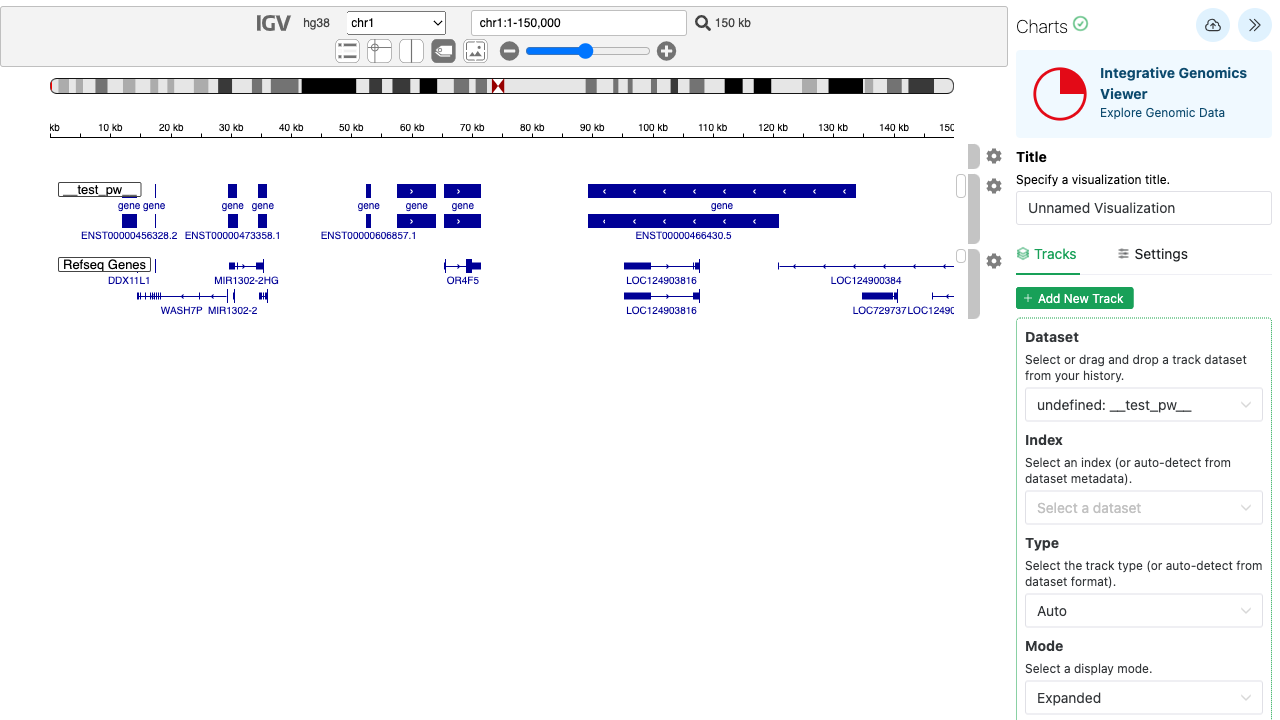
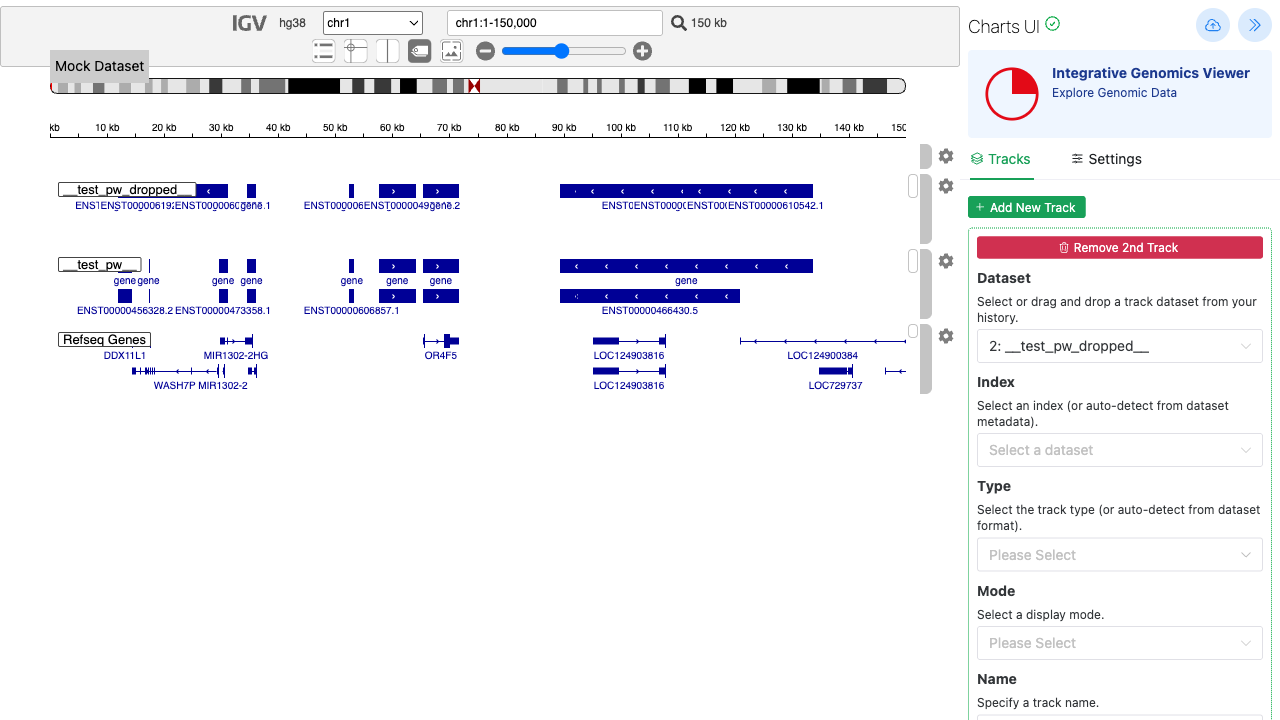
Fix tests

diff --git a/packages/igv/test.spec.js b/packages/igv/test.spec.js
@@ -54,7 +54,7 @@ async function dragAndDropDataset(page, datasetId, datasetName) {
     await page.evaluate(
         ([datasetId, datasetName]) => {
             const source = document.querySelector(".mock-dataset-item");
-            const target = document.querySelector(".h-screen.overflow-auto");
+            const target = document.querySelector("#viewport");
             const dataTransfer = new DataTransfer();
             const datasetPayload = [
                 [
@@ -110,16 +110,14 @@ test("basic load and drag-drop dataset", async ({ page }) => {
     await page.goto("http://localhost:5173?dataset_id=__test_pw__");
     await page.waitForSelector(".igv-track-label[title='__test_pw__']");
     await expect(page).toHaveScreenshot("0.png", { maxDiffPixelRatio: 0.03 });
-    await page.click(".n-button");
-    await expect(page).toHaveScreenshot("1.png", { maxDiffPixelRatio: 0.03 });
     await page.fill(".igv-search-input", "chr1:1-150,000");
     await page.keyboard.press("Enter");
     await page.waitForTimeout(1000);
-    await expect(page).toHaveScreenshot("2.png", { maxDiffPixelRatio: 0.03 });
+    await expect(page).toHaveScreenshot("1.png", { maxDiffPixelRatio: 0.03 });
     await createMockDatasetElement(page);
     await dragAndDropDataset(page, "__test_pw_dropped__", "__test_pw_dropped__");
     await page.waitForSelector(".igv-track-label[title='__test_pw_dropped__']");
     const accepted = messages.some((msg) => msg.includes("[igv] Dropped Tracks"));
     expect(accepted).toBeTruthy();
-    await expect(page).toHaveScreenshot("4.png", { maxDiffPixelRatio: 0.03 });
+    await expect(page).toHaveScreenshot("2.png", { maxDiffPixelRatio: 0.03 });
 });

diff --git a/packages/igv/src/Plugin.vue b/packages/igv/src/Plugin.vue
@@ -389,7 +389,7 @@ function trackDrop(event: DragEvent) {
         console.debug("[igv] Dropped Content", raw);
     } else {
         const newTracks = [...props.tracks, ...droppedDatasets.map((d) => ({ urlDataset: d }))];
-        emit("update", { track: newTracks });
+        emit("update", { tracks: newTracks });
         message.value = "";
         console.debug("[igv] Dropped Tracks", newTracks);
     }
